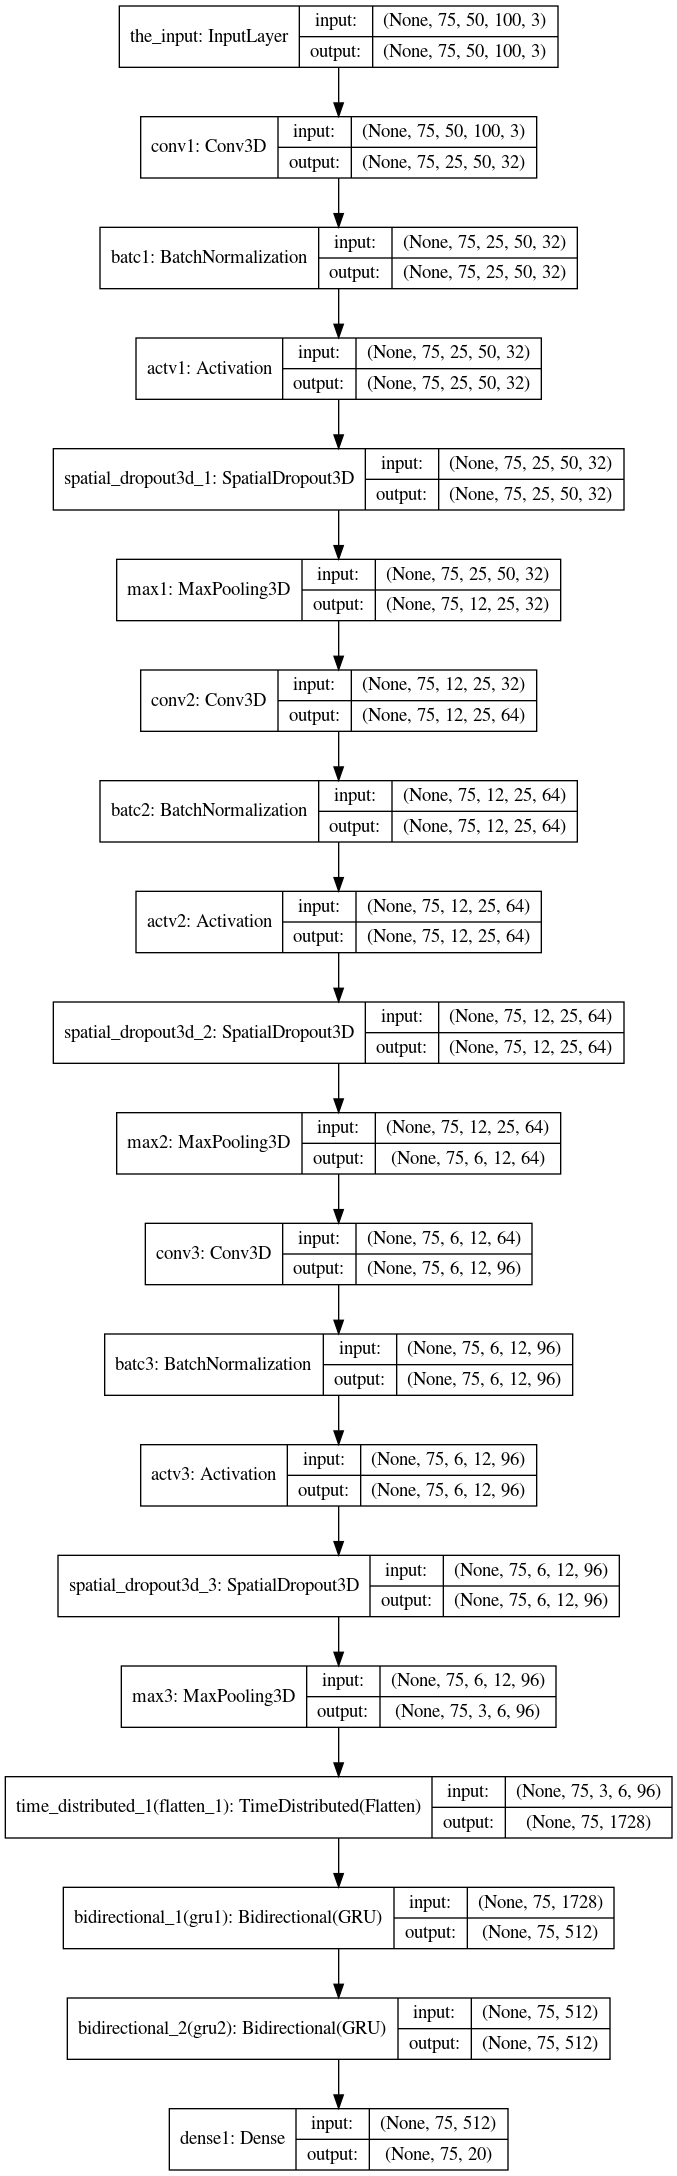
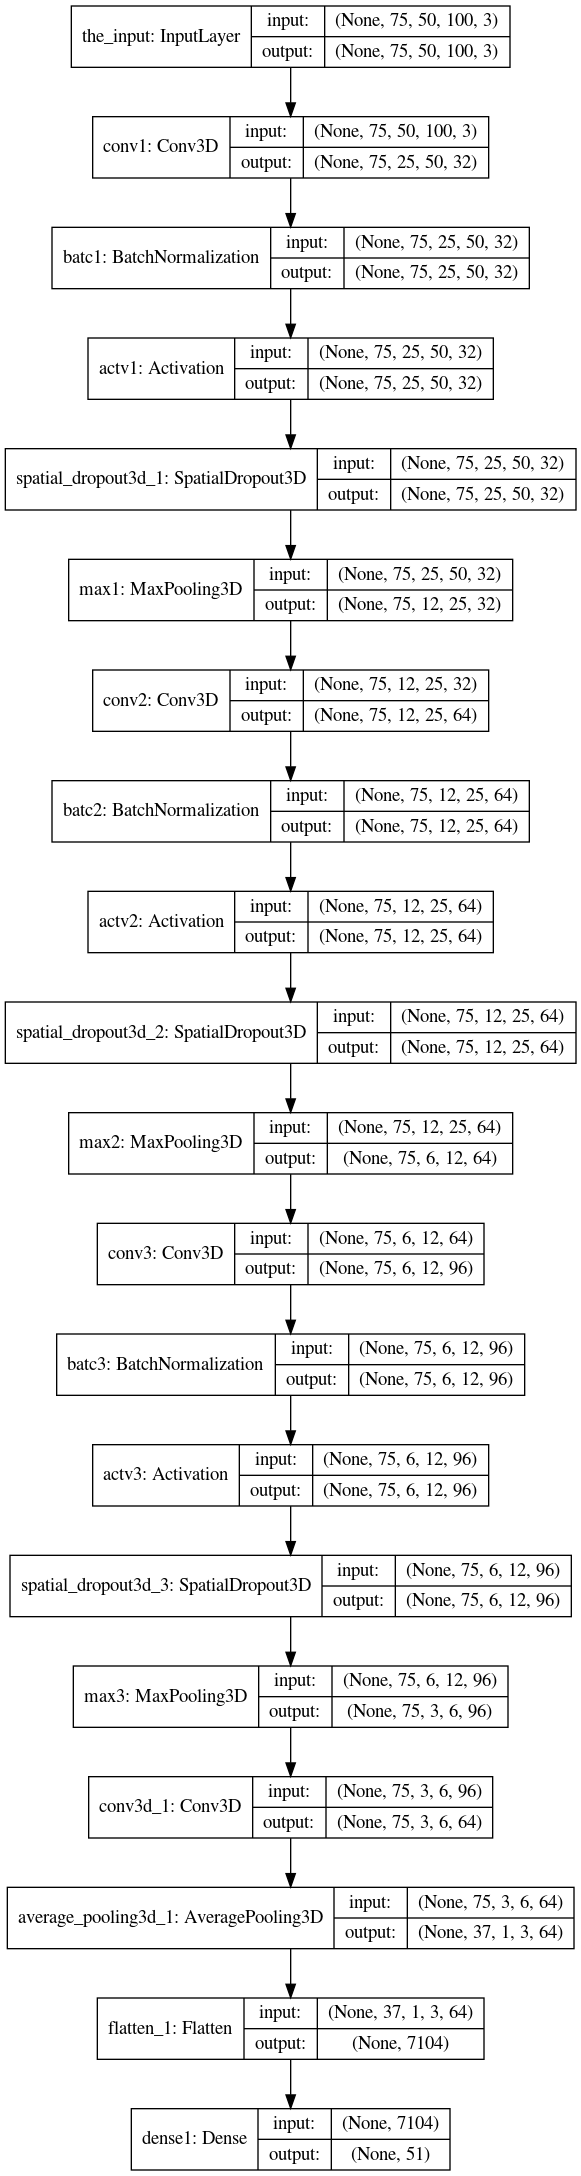
test changes in the network

diff --git a/data_gen_stanford.py b/data_gen_stanford.py
@@ -4,6 +4,7 @@ import pandas as pd
 from PIL import Image
 import cv2
 import os
+import random
 
 lipnet_features = ['again', 'at', 'bin', 'blue', 'by', 'eight', 'five', 'four', 'green', 'in',
               'lay', 'place', 'please', 'nine', 'now', 'one', 'red', 'set', 'seven', 'six', 'soon',
@@ -12,12 +13,14 @@ lipnet_features = ['again', 'at', 'bin', 'blue', 'by', 'eight', 'five', 'four', 
 
 class DataGenerator(Sequence):
 
-    def __init__(self, batch_size=10, dim=(75,50,100), n_channels=3, n_classes=51, shuffle=True):
+    def __init__(self, batch_size=10, dim=(75,50,100), n_channels=3, n_classes=51, val_split=0.9, shuffle=True):
         self.dim = dim
         self.batch_size = batch_size
         self.df = self.get_dataframe(lipnet_features)
-        print(self.df.head(10))
-        self.list_IDs = list(range(len(self.df.videopath)))
+        test_train_IDs = list(range(len(self.df.videopath)))
+        random.shuffle(test_train_IDs)
+        self.train_IDs = test_train_IDs[:int(len(test_train_IDs) * (1-val_split))]
+        self.valid_IDs = test_train_IDs[int(len(test_train_IDs) * val_split):]
         self.n_channels = n_channels
         self.n_classes = n_classes
         self.shuffle = shuffle
@@ -25,7 +28,7 @@ class DataGenerator(Sequence):
 
     def __len__(self):
         # 'Denotes the number of batches per epoch'
-        return int(np.floor(len(self.list_IDs) / self.batch_size))
+        return int(np.floor(len(self.df.videopath) / self.batch_size))
 
     def __getitem__(self, index):
         # 'Generate one batch of data'
@@ -33,15 +36,15 @@ class DataGenerator(Sequence):
         indexes = self.indexes[index*self.batch_size:(index+1)*self.batch_size]
 
         # Find list of IDs
-        list_IDs_temp = [self.list_IDs[k] for k in indexes]
+        train_IDs_temp = [self.train_IDs[k] for k in indexes]
 
         # Generate data
-        X, y = self.__data_generation(list_IDs_temp)
+        X, y = self.__data_generation(train_IDs_temp)
 
         return X, y
 
     def on_epoch_end(self):
-        self.indexes = np.arange(len(self.list_IDs))
+        self.indexes = np.arange(len(self.train_IDs))
         if self.shuffle == True:
             np.random.shuffle(self.indexes)
 
@@ -97,7 +100,6 @@ class DataGenerator(Sequence):
 
 
     def load_video(self, filepath):
-        print(filepath)
         cap = cv2.VideoCapture(filepath)
         frameCount = int(cap.get(cv2.CAP_PROP_FRAME_COUNT))
         frameWidth = int(cap.get(cv2.CAP_PROP_FRAME_WIDTH))
@@ -109,3 +111,11 @@ class DataGenerator(Sequence):
             ret, buf[count] = cap.read()
         cap.release()
         return buf / 255
+
+    def get_valid_data(self):
+        X = np.empty((len(self.valid_IDs), *self.dim, self.n_channels))
+        y = np.empty((len(self.valid_IDs), self.n_classes), dtype=int)
+        for index, ID in enumerate(self.valid_IDs):
+            y[index]  = np.array(self.df.iloc[ID, 2:].values)
+            X[index,] = np.array(self.load_video(self.df.iloc[ID, 1]))
+        return X, y

diff --git a/lipnet_NN.py b/lipnet_NN.py
@@ -1,5 +1,5 @@
 from keras.layers import Input, ZeroPadding3D, Conv3D, BatchNormalization, Activation, SpatialDropout3D, MaxPooling3D, \
-    TimeDistributed, Flatten, Bidirectional, GRU, Dense
+    TimeDistributed, Flatten, Bidirectional, GRU, Dense, AveragePooling3D
 from keras import Model
 import keras
 import numpy as np
@@ -28,14 +28,16 @@ def get_Lipnet(n_classes=10, summary=False):
     network = SpatialDropout3D(0.5)(network)
     network = MaxPooling3D(pool_size=(1, 2, 2), strides=(1, 2, 2), name='max3')(network)
 
-    network = TimeDistributed(Flatten())(network)
+    #network = TimeDistributed(Flatten())(network)
 
-    network = Bidirectional(GRU(128, return_sequences=True, kernel_initializer='Orthogonal', name='gru1'),
-                            merge_mode='concat')(network)
-    network = Bidirectional(GRU(128, return_sequences=True, kernel_initializer='Orthogonal', name='gru2'),
-                            merge_mode='concat')(network)
+    #network = Bidirectional(GRU(128, return_sequences=True, kernel_initializer='Orthogonal', name='gru1'),
+    #                        merge_mode='concat')(network)
+    #network = Bidirectional(GRU(128, return_sequences=True, kernel_initializer='Orthogonal', name='gru2'),
+    #                        merge_mode='concat')(network)
+    network = Conv3D(64, (1, 1, 1))(network)
+    network = AveragePooling3D(pool_size=(2, 2, 2))(network)
     network = Flatten()(network)
-    outputs = Dense(n_classes, kernel_initializer='he_normal', name='dense1', activation="softmax")(network)
+    outputs = Dense(n_classes, kernel_initializer='he_normal', name='dense1', activation="sigmoid")(network)
 
     model = Model(inputs=input_layer, outputs=outputs)
     if summary:
@@ -43,17 +45,17 @@ def get_Lipnet(n_classes=10, summary=False):
         print(model.summary())
 
     model.compile(optimizer=keras.optimizers.adam(lr=1e-4),
-                  loss=keras.losses.categorical_crossentropy,
+                  loss=keras.losses.binary_crossentropy,
                   metrics=['accuracy'])
     return model
 
 
 if __name__ == '__main__':
     model = get_Lipnet(n_classes=51, summary=True)
-    datagen = DataGenerator(batch_size=10)
+    datagen = DataGenerator(batch_size=10, val_split=0.99)
     if False:
         model.fit_generator(generator=datagen, epochs=1, shuffle=True, 
             use_multiprocessing=True, workers=6)
     else:
-        model.fit_generator(generator=datagen, epochs=1, shuffle=True)
+        model.fit_generator(generator=datagen, epochs=1, shuffle=True, validation_data=datagen.get_valid_data())
         
